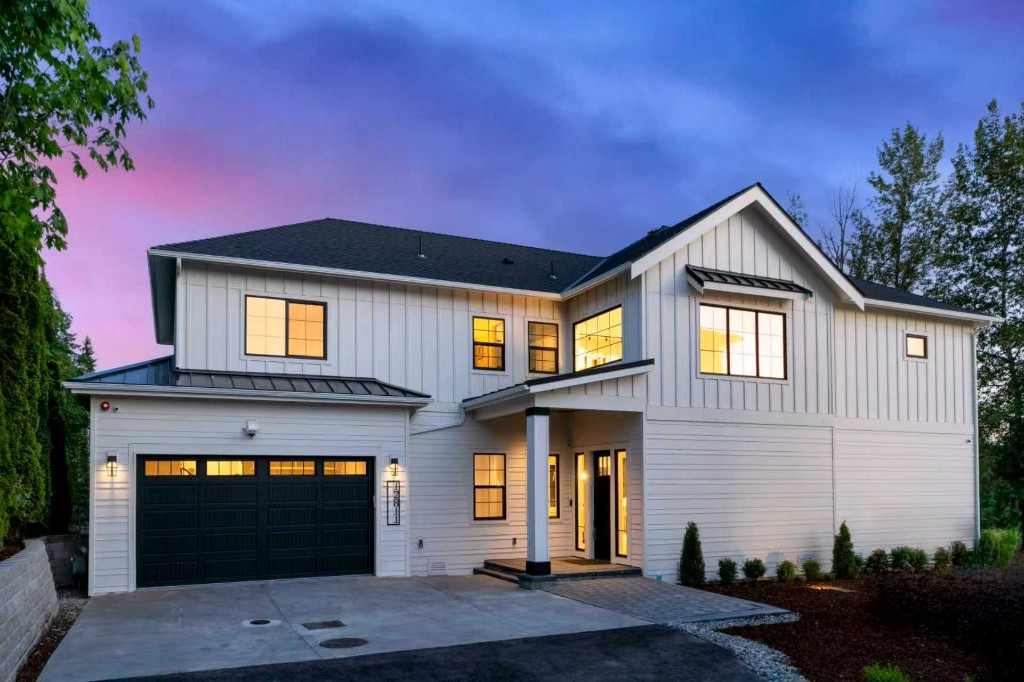
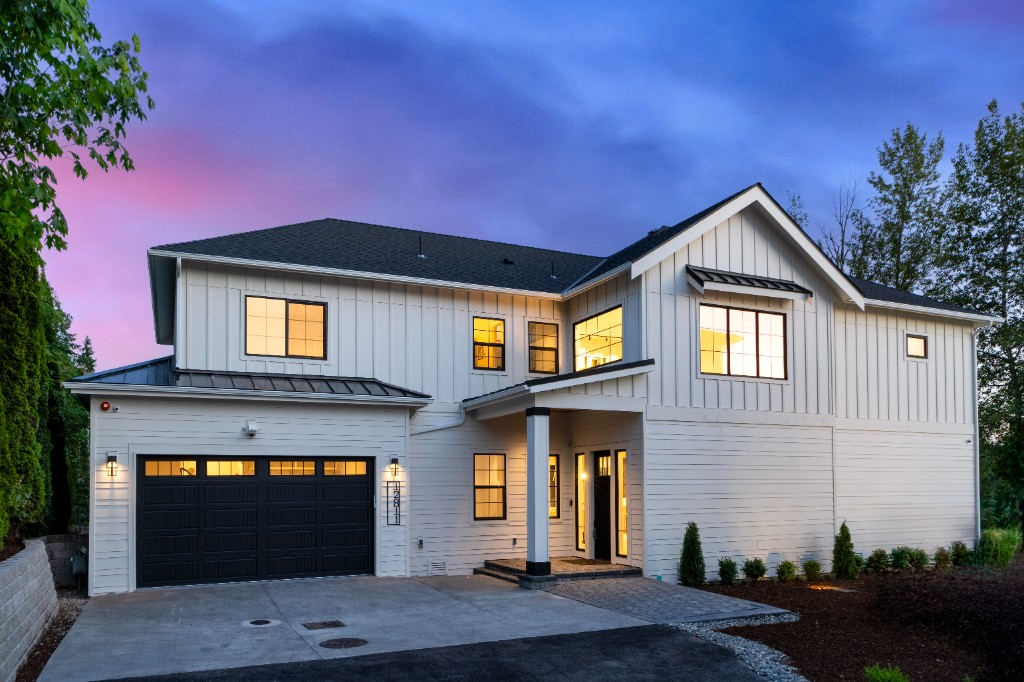
ui: streamline inquiry UX and improve section polish
Unifies investor/homeowner conversion flows, adds scroll-aware navbar section highlighting, and updates favicon/section imagery for clearer brand presentation.

Made-with: Cursor

diff --git a/src/pages/HomePage.jsx b/src/pages/HomePage.jsx
@@ -15,14 +15,14 @@ const INQUIRY_SUBMIT_LABEL = 'Send inquiry';
 
 function HomePage() {
   const heroVideoSrc = `${import.meta.env.BASE_URL}${String(siteContent.heroVideo || '').replace(/^\/+/, '')}`;
-  const servicesFeatureImageSrc = `${import.meta.env.BASE_URL}assets/sections/services/services-feature.png`;
-  const investorsFeatureImageSrc = `${import.meta.env.BASE_URL}assets/sections/investors/investors-feature.png`;
-  const homeownersFeatureImageSrc = `${import.meta.env.BASE_URL}assets/projects/n-64th-st-townhomes/cover-facade.png`;
+  const servicesFeatureImageSrc = `${import.meta.env.BASE_URL}assets/sections/services/services-feature.jpg?v=2`;
+  const investorsFeatureImageSrc = `${import.meta.env.BASE_URL}assets/sections/investors/investors-feature.jpg?v=2`;
+  const homeownersFeatureImageSrc = `${import.meta.env.BASE_URL}assets/projects/n-64th-st-townhomes/cover-facade.png?v=2`;
   const [visibleProjectCount, setVisibleProjectCount] = useState(6);
   const [selectedProjectSlug, setSelectedProjectSlug] = useState('');
   const [formState, setFormState] = useState({
     homeowners: { address: '', photos: '', goal: '', timing: '', email: '', name: '', phone: '' },
-    investors: { name: '', email: '', accredited: '', checkSize: '', preference: '', timeline: '' },
+    investors: { name: '', email: '' },
   });
   const [submitStatus, setSubmitStatus] = useState({
     homeowners: { loading: false, message: '' },
@@ -64,6 +64,8 @@ function HomePage() {
         'Clear, data-driven recommendations',
       ],
       icon: FiActivity,
+      ctaHref: '#contact',
+      ctaLabel: CONTACT_CTA_LABEL,
     },
   ];
   const serviceItems = [
@@ -176,7 +178,6 @@ function HomePage() {
       setSectionStatus(section, false, error.message || 'Unable to send right now.');
     }
   };
-
 
   return (
     <>
@@ -300,24 +301,19 @@ function HomePage() {
             </ul>
           </article>
 
-          <article className="card-min investor-block investor-block-wide investor-access-block">
-            <p className="investor-block-kicker">{investorAccessBlock.sectionTitle}</p>
-            <h3 className="investor-block-headline">{investorAccessBlock.headline}</h3>
-            <p>{investorAccessBlock.description}</p>
-          </article>
-
           <Form
             id="investors-form"
             className="card-min form-card onepage-form"
             onSubmit={(event) => {
               event.preventDefault();
               handleSubmit('investors', () => ({
-                source: 'Investor Join Request',
+                source: 'Investor List Signup',
                 ...formState.investors,
               }));
             }}
           >
-            <h4>Join investor list</h4>
+            <h4>{investorAccessBlock.headline}</h4>
+            <p>{investorAccessBlock.description}</p>
             <Row className="g-3">
               <Col md={6}>
                 <Form.Group>
@@ -329,34 +325,6 @@ function HomePage() {
                 <Form.Group>
                   <Form.Label>Email</Form.Label>
                   <Form.Control type="email" value={formState.investors.email} onChange={(e) => updateForm('investors', 'email', e.target.value)} required />
-                </Form.Group>
-              </Col>
-              <Col md={4}>
-                <Form.Group>
-                  <Form.Label>Accredited</Form.Label>
-                  <Form.Select value={formState.investors.accredited} onChange={(e) => updateForm('investors', 'accredited', e.target.value)}>
-                    <option value="">Select</option>
-                    <option>Yes</option>
-                    <option>No</option>
-                  </Form.Select>
-                </Form.Group>
-              </Col>
-              <Col md={4}>
-                <Form.Group>
-                  <Form.Label>Target check size</Form.Label>
-                  <Form.Control value={formState.investors.checkSize} onChange={(e) => updateForm('investors', 'checkSize', e.target.value)} />
-                </Form.Group>
-              </Col>
-              <Col md={4}>
-                <Form.Group>
-                  <Form.Label>Timeline</Form.Label>
-                  <Form.Control value={formState.investors.timeline} onChange={(e) => updateForm('investors', 'timeline', e.target.value)} />
-                </Form.Group>
-              </Col>
-              <Col md={12}>
-                <Form.Group>
-                  <Form.Label>Return preference</Form.Label>
-                  <Form.Control value={formState.investors.preference} onChange={(e) => updateForm('investors', 'preference', e.target.value)} />
                 </Form.Group>
               </Col>
             </Row>
@@ -457,6 +425,11 @@ function HomePage() {
                               <li key={bullet}>{bullet}</li>
                             ))}
                           </ul>
+                          {item.ctaHref ? (
+                            <div className="homeowners-inline-cta">
+                              <a className="btn-ghost" href={item.ctaHref}>{item.ctaLabel}</a>
+                            </div>
+                          ) : null}
                         </div>
                       </article>
                     );
@@ -465,75 +438,6 @@ function HomePage() {
               </div>
             </div>
           </div>
-
-          <Form
-            id="homeowners-form"
-            className="card-min form-card onepage-form"
-            onSubmit={(event) => {
-              event.preventDefault();
-              handleSubmit('homeowners', () => ({
-                source: 'Homeowners Feasibility Review',
-                ...formState.homeowners,
-              }));
-            }}
-          >
-            <h4>Start feasibility review</h4>
-            <Row className="g-3">
-              <Col md={6}>
-                <Form.Group>
-                  <Form.Label>Name</Form.Label>
-                  <Form.Control value={formState.homeowners.name} onChange={(e) => updateForm('homeowners', 'name', e.target.value)} required />
-                </Form.Group>
-              </Col>
-              <Col md={6}>
-                <Form.Group>
-                  <Form.Label>Email</Form.Label>
-                  <Form.Control type="email" value={formState.homeowners.email} onChange={(e) => updateForm('homeowners', 'email', e.target.value)} required />
-                </Form.Group>
-              </Col>
-              <Col md={6}>
-                <Form.Group>
-                  <Form.Label>Phone</Form.Label>
-                  <Form.Control value={formState.homeowners.phone} onChange={(e) => updateForm('homeowners', 'phone', e.target.value)} />
-                </Form.Group>
-              </Col>
-              <Col md={6}>
-                <Form.Group>
-                  <Form.Label>Property address</Form.Label>
-                  <Form.Control value={formState.homeowners.address} onChange={(e) => updateForm('homeowners', 'address', e.target.value)} required />
-                </Form.Group>
-              </Col>
-              <Col md={6}>
-                <Form.Group>
-                  <Form.Label>Goal</Form.Label>
-                  <Form.Select value={formState.homeowners.goal} onChange={(e) => updateForm('homeowners', 'goal', e.target.value)}>
-                    <option value="">Select</option>
-                    <option>Sell</option>
-                    <option>Partner</option>
-                    <option>Build and keep</option>
-                  </Form.Select>
-                </Form.Group>
-              </Col>
-              <Col md={6}>
-                <Form.Group>
-                  <Form.Label>Timing</Form.Label>
-                  <Form.Control value={formState.homeowners.timing} onChange={(e) => updateForm('homeowners', 'timing', e.target.value)} placeholder="0-3 months, etc" />
-                </Form.Group>
-              </Col>
-              <Col md={12}>
-                <Form.Group>
-                  <Form.Label>Photo links</Form.Label>
-                  <Form.Control value={formState.homeowners.photos} onChange={(e) => updateForm('homeowners', 'photos', e.target.value)} placeholder="Drive/Dropbox links" />
-                </Form.Group>
-              </Col>
-            </Row>
-            <div className="section-actions">
-              <button className="btn-main" type="submit" disabled={submitStatus.homeowners.loading}>
-                {submitStatus.homeowners.loading ? 'Sending...' : INQUIRY_SUBMIT_LABEL}
-              </button>
-            </div>
-            {submitStatus.homeowners.message ? <p className="form-feedback">{submitStatus.homeowners.message}</p> : null}
-          </Form>
         </Container>
       </section>
 

diff --git a/src/components/layout/Navbar.jsx b/src/components/layout/Navbar.jsx
@@ -1,10 +1,11 @@
-import { useState } from 'react';
+import { useEffect, useState } from 'react';
 import { Container, Nav, Navbar } from 'react-bootstrap';
 import { Link } from 'react-router-dom';
 import './Navbar.css';
 
 function NavigationBar() {
   const [expanded, setExpanded] = useState(false);
+  const [activeSection, setActiveSection] = useState('#home');
   const links = [
     { href: '#home', label: 'Home' },
     { href: '#services', label: 'Services' },
@@ -23,25 +24,73 @@ function NavigationBar() {
       return;
     }
 
+    if (selector === '#contact') {
+      setActiveSection('#contact');
+      window.scrollTo({ top: document.documentElement.scrollHeight, behavior: 'smooth' });
+      return;
+    }
+
     const offset = 92;
     const top = target.getBoundingClientRect().top + window.scrollY - offset;
     window.scrollTo({ top, behavior: 'smooth' });
   };
 
+  useEffect(() => {
+    const resolveActiveSection = () => {
+      const offset = 120;
+      let current = '#home';
+
+      const contactSection = document.querySelector('#contact');
+      if (contactSection) {
+        const contactRect = contactSection.getBoundingClientRect();
+        const contactInView = contactRect.top <= window.innerHeight * 0.65 && contactRect.bottom >= offset;
+        const atPageBottom = window.scrollY + window.innerHeight >= document.documentElement.scrollHeight - 4;
+        if (contactInView || atPageBottom) {
+          setActiveSection((prev) => (prev === '#contact' ? prev : '#contact'));
+          return;
+        }
+      }
+
+      links.forEach((item) => {
+        const section = document.querySelector(item.href);
+        if (!section) {
+          return;
+        }
+
+        const top = section.getBoundingClientRect().top + window.scrollY;
+        if (window.scrollY + offset >= top) {
+          current = item.href;
+        }
+      });
+
+      setActiveSection((prev) => (prev === current ? prev : current));
+    };
+
+    resolveActiveSection();
+    window.addEventListener('scroll', resolveActiveSection, { passive: true });
+    window.addEventListener('resize', resolveActiveSection);
+
+    return () => {
+      window.removeEventListener('scroll', resolveActiveSection);
+      window.removeEventListener('resize', resolveActiveSection);
+    };
+  }, []);
+
   return (
     <Navbar expand="lg" fixed="top" expanded={expanded} onToggle={setExpanded} className="site-navbar">
       <Container>
         <Navbar.Brand as={Link} to="/" className="brand-wrap" onClick={() => setExpanded(false)}>
-          <img src={`${import.meta.env.BASE_URL}assets/logo/westwood-logo-v2-transparent.png`} alt="Westwood Homes logo" className="brand-logo" />
+          <img src={`${import.meta.env.BASE_URL}assets/logo/westwood-logo-v2.png`} alt="Westwood Homes logo" className="brand-logo" />
           <span className="brand-name">Westwood Homes</span>
         </Navbar.Brand>
 
         <Navbar.Toggle aria-controls="site-nav" className="site-toggler" />
         <Navbar.Collapse id="site-nav">
-          <Nav className="ms-auto align-items-lg-center">
+          <Nav className="ms-auto align-items-lg-center" activeKey={activeSection}>
             {links.map((item) => (
               <Nav.Link
                 key={item.href}
+                eventKey={item.href}
                 href={item.href}
                 className="site-link"
                 onClick={(event) => scrollToSection(event, item.href)}

diff --git a/api/inquiry.js b/api/inquiry.js
@@ -27,6 +27,7 @@ export default async function handler(req, res) {
     address = '',
     goal = '',
     timing = '',
+    timeline = '',
     message = '',
     preference = '',
     checkSize = '',
@@ -36,6 +37,29 @@ export default async function handler(req, res) {
 
   const resend = new Resend(resendApiKey);
   const trimmedEmail = String(email || '').trim();
+  const resolvedTiming = String(timing || timeline || '').trim();
+  const fields = [
+    ['Source', source],
+    ['Name', name],
+    ['Email', trimmedEmail],
+    ['Phone', phone],
+    ['Address', address],
+    ['Goal', goal],
+    ['Timing', resolvedTiming],
+    ['Check size', checkSize],
+    ['Accredited', accredited],
+    ['Return preference', preference],
+    ['Photo links', photos],
+    ['Message', message],
+  ];
+  const textBody = fields
+    .filter(([label, value]) => ['Source', 'Name', 'Email'].includes(label) || String(value || '').trim())
+    .map(([label, value]) => `${label}: ${String(value || '').trim() || '-'}`)
+    .join('\n');
+  const htmlBody = fields
+    .filter(([label, value]) => ['Source', 'Name', 'Email'].includes(label) || String(value || '').trim())
+    .map(([label, value]) => formatField(label, value))
+    .join('');
 
   try {
     const { error } = await resend.emails.send({
@@ -43,34 +67,10 @@ export default async function handler(req, res) {
       to: [toEmail],
       subject: `Westwood website inquiry: ${source}`,
       replyTo: trimmedEmail || undefined,
-      text: [
-        `Source: ${source}`,
-        `Name: ${name || '-'}`,
-        `Email: ${trimmedEmail || '-'}`,
-        `Phone: ${phone || '-'}`,
-        `Address: ${address || '-'}`,
-        `Goal: ${goal || '-'}`,
-        `Timing: ${timing || '-'}`,
-        `Check size: ${checkSize || '-'}`,
-        `Accredited: ${accredited || '-'}`,
-        `Return preference: ${preference || '-'}`,
-        `Photo links: ${photos || '-'}`,
-        `Message: ${message || '-'}`,
-      ].join('\n'),
+      text: textBody,
       html: `
         <h2>New inquiry from Westwood website</h2>
-        ${formatField('Source', source)}
-        ${formatField('Name', name)}
-        ${formatField('Email', email)}
-        ${formatField('Phone', phone)}
-        ${formatField('Address', address)}
-        ${formatField('Goal', goal)}
-        ${formatField('Timing', timing)}
-        ${formatField('Check size', checkSize)}
-        ${formatField('Accredited', accredited)}
-        ${formatField('Return preference', preference)}
-        ${formatField('Photo links', photos)}
-        ${formatField('Message', message)}
+        ${htmlBody}
       `,
     });
 

diff --git a/index.html b/index.html
@@ -8,6 +8,8 @@
       name="description"
       content="Westwood Homes is a Bellevue-based custom home builder dedicated to exceptional craftsmanship and thoughtful design."
     />
+    <link rel="icon" type="image/png" sizes="32x32" href="/assets/logo/westwood-favicon-32.png?v=4" />
+    <link rel="icon" type="image/png" sizes="64x64" href="/assets/logo/westwood-favicon-64.png?v=4" />
     <link rel="preconnect" href="https://fonts.googleapis.com" />
     <link rel="preconnect" href="https://fonts.gstatic.com" crossorigin />
     <link
